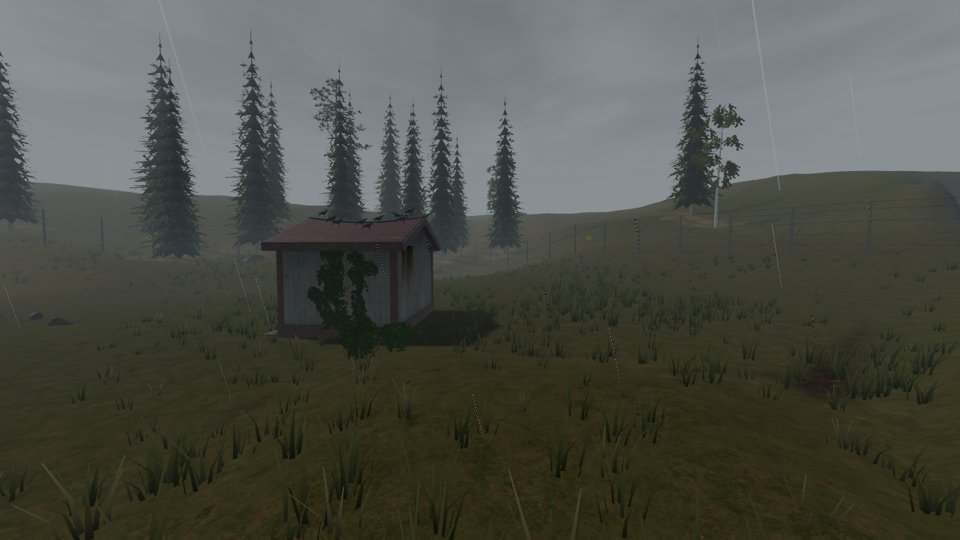
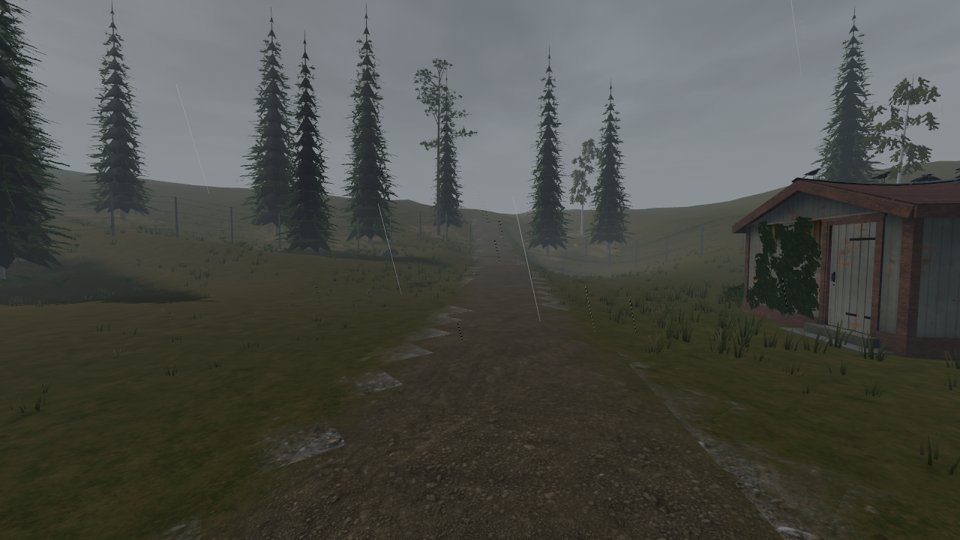
Walk review: Marrow's rendezvous looks down the truck's track; the field shed's door to the track
The Rail yard rendezvous stands 9 m north-west of where it was, off the
rail line, and the truck's own dirt track runs on from it out through a
new gate in the fence: arriving you look down it, with the platelayers'
hut beside it. The field shed on the first walk turns its door to the
track, so the first small discovery opens toward you.

Claude-Session: https://claude.ai/code/session_01P1U9QbA5tmkphiBqxcZfkt

diff --git a/docs/craft/walks/marrow_creek/WALK.md b/docs/craft/walks/marrow_creek/WALK.md
@@ -166,9 +166,16 @@ The 'concrete block' that filled the crest's left half was a standing stone of t
 
 ![before](s09_ahead.jpg) ![after](fixes/s09_ahead_after.jpg)
 
-### 3. A rendezvous with something in front of it (s12)
+### 3. A rendezvous that shows the way out (s12)
 
-The rendezvous stood at the yard's far edge, so arriving you faced a rise with pines. It's now 20 m north, 11 m short of the yard's hut and still 8 m clear of it for the truck. Arriving, you face the hut and the gap in the fence beyond it, with the water tower and its lamp beside the gravel road to the right. The stop moved with the rendezvous. The after is the new arrival.
+The rendezvous stood at the yard's far edge, and arriving you faced a rise of pines. The beacon stands 7 m to one side of the truck's spot (map_landmarks::beacon_at), so no arrival faces its lamp, and the yard is always behind you coming from the crest. The yard's west side would face it, but there's no room there for the truck and it's too near the Bus depot's rendezvous. So the rendezvous moved 13 m north-west, off the rail line and 12 m from the platelayers' hut, and the truck's own track runs on from it through a new gate in the fence. Arriving, you look down the track and out, with the hut and its door beside it; the side view has the rail shed and the depot's sheds. The stop moved with the rendezvous, and the after is the new arrival.
 
 ![before](s12_ahead.jpg) ![after](fixes/rendezvous_ahead_after.jpg)
 ![before](s12_side.jpg) ![after](fixes/rendezvous_side_after.jpg)
+
+### 4. The shed's door (s03)
+
+The field shed by the track had its door round the back, so the walk's first small discovery read as a box. It's turned to face down the track toward the drop: you see the door from s02 as you come up, and the side view at s03 looks into it.
+
+![before](s02_ahead.jpg) ![after](fixes/s02_ahead_after.jpg)
+![before](s03_side.jpg) ![after](fixes/s03_side_after.jpg)

diff --git a/docs/craft/WALK_REVIEW.md b/docs/craft/WALK_REVIEW.md
@@ -86,7 +86,10 @@ the answers, the sheet, the page and the fixes.
   block" was a standing stone of an offering's ring that the route walked
   through; nothing in the map's prefabs listed it.
 - A rendezvous keeps 8 m clear of buildings for the truck
-  (`map_lint::TRUCK_ROOM`), so it can't stand right at the thing you want
-  to face. Stand it 10 m short of it, on the way in.
+  (`map_lint::TRUCK_ROOM`), and its beacon stands 7 m to one side
+  (`map_landmarks::beacon_at`), so an arrival never faces the lamp, and
+  the place you crossed to get there is behind you. Give the arrival
+  something ahead instead: the truck's own track on out through the
+  fence (roads make the fence's gates) says "the way out" plainly.
 - A walk's fixes move its route: a job or rendezvous moved, the arrival
   stop moves with it. Show the new arrival beside the old, and say so.
